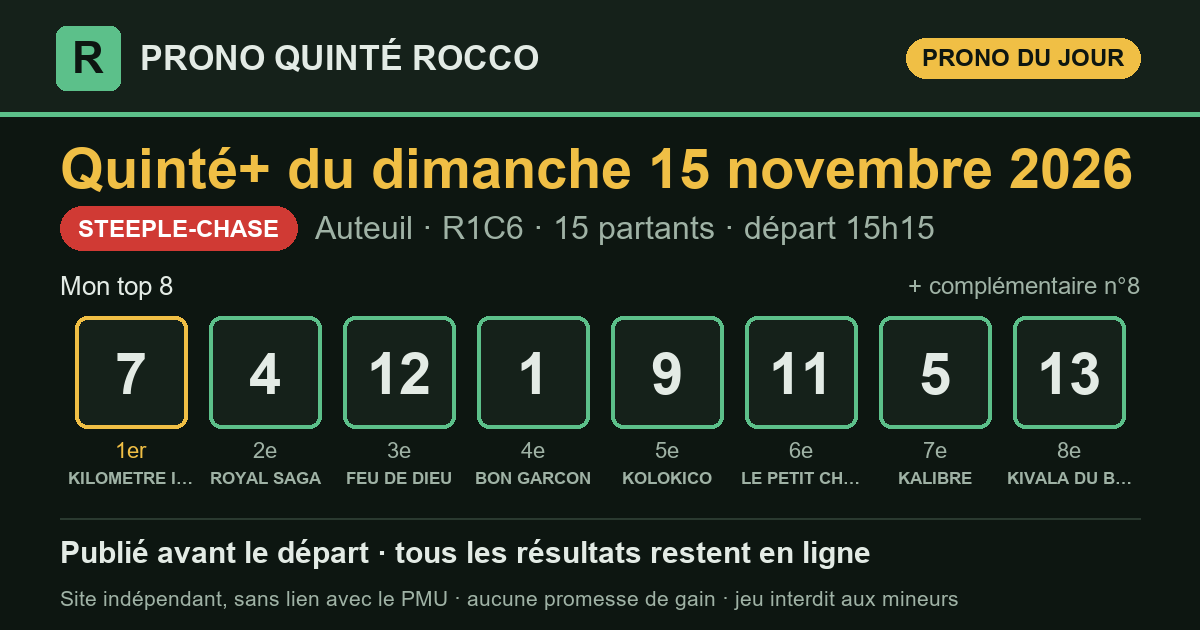
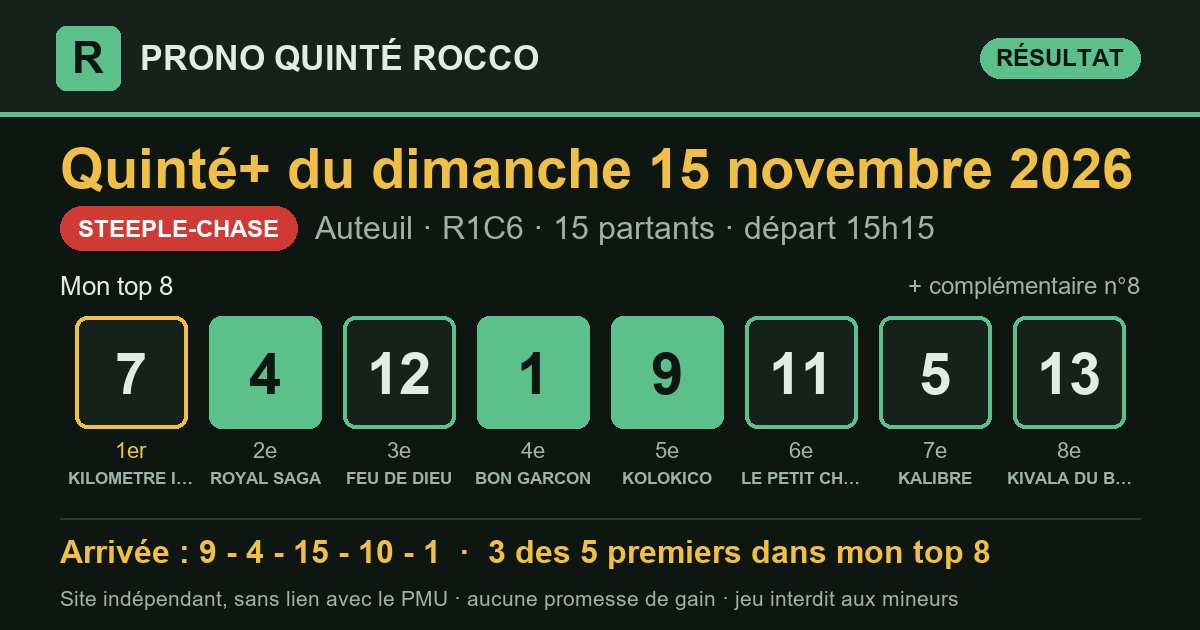
Résultat du Quinté+ 2026-11-15 Auteuil R1C6 — publié le 15/11/2026 16:11 (heure de Paris)

diff --git a/partants.html b/partants.html
@@ -3,7 +3,7 @@
 <head>
 <meta charset="utf-8">
 <meta name="viewport" content="width=device-width, initial-scale=1, viewport-fit=cover">
-<title>Partants du Quinté+ du dimanche 15 novembre 2026 : Prix la Haye Jousselin — Prono Quinté Rocco</title>
+<title>Partants du Quinté+ du lundi 16 novembre 2026 : Prix d&#x27;Aigues Mortes — Prono Quinté Rocco</title>
 <meta name="description" content="Les partants du prochain Quinté+ (programme officiel du PMU), avec le rang de chaque cheval dans mon prono et les liens vers les pronostics de la presse.">
 <link rel="canonical" href="https://prono-quinte-rocco.fr/partants.html">
 <link rel="stylesheet" href="style.css?v=16feb868">
@@ -13,7 +13,7 @@
 <meta property="og:site_name" content="Prono Quinté Rocco">
 <meta property="og:locale" content="fr_FR">
 <meta property="og:type" content="website">
-<meta property="og:title" content="Partants du Quinté+ du dimanche 15 novembre 2026 : Prix la Haye Jousselin — Prono Quinté Rocco">
+<meta property="og:title" content="Partants du Quinté+ du lundi 16 novembre 2026 : Prix d&#x27;Aigues Mortes — Prono Quinté Rocco">
 <meta property="og:description" content="Les partants du prochain Quinté+ (programme officiel du PMU), avec le rang de chaque cheval dans mon prono et les liens vers les pronostics de la presse.">
 <meta property="og:url" content="https://prono-quinte-rocco.fr/partants.html">
 <meta name="twitter:card" content="summary">
@@ -30,95 +30,95 @@
   <p class="surtitre">Programme officiel du PMU</p>
   <h1>Les partants du prochain Quinté+</h1>
   <div class="fiche-course">
-    <p class="fiche-date">Dimanche 15 novembre 2026</p>
-    <div class="fiche-rc"><span class="pastille" title="Réunion 1">R1</span><span class="pastille" title="Course 6">C6</span><span class="fiche-nom">Prix la Haye Jousselin</span></div>
-    <p class="meta"><span class="type t-steeple">Steeple-chase</span>Auteuil · 5 500 m · 15 partants</p>
-    <p class="fiche-depart">Départ <b>15:15</b> <span>heure de Paris</span></p>
+    <p class="fiche-date">Lundi 16 novembre 2026</p>
+    <div class="fiche-rc"><span class="pastille" title="Réunion 1">R1</span><span class="pastille" title="Course 1">C1</span><span class="fiche-nom">Prix d&#x27;Aigues Mortes</span></div>
+    <p class="meta"><span class="type t-attele">Trot attelé</span>Vincennes · 2 100 m · 15 partants</p>
+    <p class="fiche-depart">Départ <b>13:55</b> <span>heure de Paris</span></p>
   </div>
   <p class="surtitre">Les pronostics ailleurs sur le web</p>
-  <div class="liens"><a class="lien-ext" href="https://www.turfoo.fr/programmes-courses/261115/reunion1-auteuil/course6-prix-la-haye-jousselin/pronostics-presse/" rel="noopener" target="_blank"><b>Les pronostics de la presse →</b><span>sur Turfoo (site extérieur)</span></a><a class="lien-ext" href="https://www.geny.com/programme/2026-11-15" rel="noopener" target="_blank"><b>Partants et pronostics →</b><span>programme du jour sur Geny (site extérieur)</span></a></div>
+  <div class="liens"><a class="lien-ext" href="https://www.turfoo.fr/programmes-courses/261116/reunion1-vincennes/course1-prix-d-aigues-mortes/pronostics-presse/" rel="noopener" target="_blank"><b>Les pronostics de la presse →</b><span>sur Turfoo (site extérieur)</span></a><a class="lien-ext" href="https://www.geny.com/programme/2026-11-16" rel="noopener" target="_blank"><b>Partants et pronostics →</b><span>programme du jour sur Geny (site extérieur)</span></a></div>
   <div class="liste-boite"><table class="liste-partants">
     <thead><tr><th>N°</th><th>Cheval</th><th class="cote"><span class="long">Cote du matin</span><span class="court">Cote</span></th>
     <th class="ia"><span class="long">Mon prono</span><span class="court">Prono</span></th></tr></thead>
     <tbody><tr>
   <td><span class="tapis petit">1</span></td>
-  <td><span class="cheval">BON GARCON</span><span class="sous">G.RE · CHAILLE-CHAILLE &amp; PAMART</span></td>
-  <td class="cote num">8,3</td>
-  <td class="ia"><span class="etat place">4<sup>e</sup></span></td>
+  <td><span class="cheval">ILIANO DES PLAINES</span><span class="sous">A. BARRIER · E. BOUYER</span></td>
+  <td class="cote num">—</td>
+  <td class="ia">—</td>
 </tr><tr>
   <td><span class="tapis petit">2</span></td>
-  <td><span class="cheval">AMY DU KIFF</span><span class="sous">T.CHEVILLARD · GAB.LEENDERS (S)</span></td>
-  <td class="cote num">32,0</td>
+  <td><span class="cheval">JAZZ D&#x27;OURVILLE</span><span class="sous">M. ABRIVARD · M. ABRIVARD</span></td>
+  <td class="cote num">—</td>
   <td class="ia">—</td>
 </tr><tr>
   <td><span class="tapis petit">3</span></td>
-  <td><span class="cheval">TOSCANA DU BERLAIS</span><span class="sous">G.RICHARD · CHAILLE-CHAILLE &amp; PAMART</span></td>
-  <td class="cote num">17,0</td>
+  <td><span class="cheval">DESTINO D.J.</span><span class="sous">B. ROCHARD · H.E. BONDO</span></td>
+  <td class="cote num">—</td>
   <td class="ia">—</td>
 </tr><tr>
   <td><span class="tapis petit">4</span></td>
-  <td><span class="cheval">ROYAL SAGA</span><span class="sous">G.MEUNIER · D.BRESSOU</span></td>
-  <td class="cote num">10,0</td>
-  <td class="ia"><span class="etat place">2<sup>e</sup></span></td>
+  <td><span class="cheval">HARPY</span><span class="sous">R. BERGH · R. BERGH</span></td>
+  <td class="cote num">—</td>
+  <td class="ia">—</td>
 </tr><tr>
   <td><span class="tapis petit">5</span></td>
-  <td><span class="cheval">KALIBRE</span><span class="sous">J.PHELIPPE · M.SEROR (S)</span></td>
-  <td class="cote num">19,0</td>
-  <td class="ia"><span class="etat place">7<sup>e</sup></span></td>
+  <td><span class="cheval">JAVA DES CAILLONS</span><span class="sous">F. LAGADEUC · Sté. Ent. Christophe JARIEL</span></td>
+  <td class="cote num">—</td>
+  <td class="ia">—</td>
 </tr><tr>
   <td><span class="tapis petit">6</span></td>
-  <td><span class="cheval">JOJO LAPIN</span><span class="sous">J.PLOUGANOU · D.COTTIN (S)</span></td>
-  <td class="cote num">28,0</td>
+  <td><span class="cheval">JEWEL DE BANVILLE</span><span class="sous">E. RAFFIN · A. CHAVATTE</span></td>
+  <td class="cote num">—</td>
   <td class="ia">—</td>
 </tr><tr>
   <td><span class="tapis petit">7</span></td>
-  <td><span class="cheval">KILOMETRE ILLIMITE</span><span class="sous">G.MASURE · CHAILLE-CHAILLE &amp; PAMART</span></td>
-  <td class="cote num">5,9</td>
-  <td class="ia"><span class="etat place">1<sup>er</sup></span></td>
+  <td><span class="cheval">IQUEM</span><span class="sous">A. COLLETTE · K. LEBLANC</span></td>
+  <td class="cote num">—</td>
+  <td class="ia">—</td>
 </tr><tr>
   <td><span class="tapis petit">8</span></td>
-  <td><span class="cheval">JUNTOS GANAMOS</span><span class="sous">Q.SAMARIA · D.COTTIN (S)</span></td>
-  <td class="cote num">14,0</td>
-  <td class="ia"><span class="etat place">compl.</span></td>
+  <td><span class="cheval">KAXIG IN</span><span class="sous">M. MOTTIER · David PERSSON</span></td>
+  <td class="cote num">—</td>
+  <td class="ia">—</td>
 </tr><tr>
   <td><span class="tapis petit">9</span></td>
-  <td><span class="cheval">KOLOKICO</span><span class="sous">J.REVELEY · E.CLAYEUX (S)</span></td>
-  <td class="cote num">9,6</td>
-  <td class="ia"><span class="etat place">5<sup>e</sup></span></td>
+  <td><span class="cheval">I LOVE JOSSELYN</span><span class="sous">R. DERIEUX · R. DERIEUX</span></td>
+  <td class="cote num">—</td>
+  <td class="ia">—</td>
 </tr><tr>
   <td><span class="tapis petit">10</span></td>
-  <td><span class="cheval">JOHNNY ROQUE</span><span class="sous">L.BRECHET · D.MELE (S)</span></td>
-  <td class="cote num">33,0</td>
+  <td><span class="cheval">DOMENIK JET</span><span class="sous">G. GELORMINI · W. NIMCZYK</span></td>
+  <td class="cote num">—</td>
   <td class="ia">—</td>
 </tr><tr>
   <td><span class="tapis petit">11</span></td>
-  <td><span class="cheval">LE PETIT CHEVAL</span><span class="sous">B.LE CLERC · F.BELLEMERE</span></td>
-  <td class="cote num">9,1</td>
-  <td class="ia"><span class="etat place">6<sup>e</sup></span></td>
+  <td><span class="cheval">DILVA JET</span><span class="sous">A. ANDRE · H.E. BONDO</span></td>
+  <td class="cote num">—</td>
+  <td class="ia">—</td>
 </tr><tr>
   <td><span class="tapis petit">12</span></td>
-  <td><span class="cheval">FEU DE DIEU</span><span class="sous">L.PHILIPPERON · D.COTTIN (S)</span></td>
-  <td class="cote num">8,8</td>
-  <td class="ia"><span class="etat place">3<sup>e</sup></span></td>
+  <td><span class="cheval">JUNKIE (SWE)</span><span class="sous">A. ABRIVARD · P. LEVESQUE</span></td>
+  <td class="cote num">—</td>
+  <td class="ia">—</td>
 </tr><tr>
   <td><span class="tapis petit">13</span></td>
-  <td><span class="cheval">KIVALA DU BERLAIS</span><span class="sous">J.CHARRON · D.COTTIN (S)</span></td>
-  <td class="cote num">9,5</td>
-  <td class="ia"><span class="etat place">8<sup>e</sup></span></td>
+  <td><span class="cheval">MAX OCCAGNES</span><span class="sous">D. LOCQUENEUX · D. LOCQUENEUX</span></td>
+  <td class="cote num">—</td>
+  <td class="ia">—</td>
 </tr><tr>
   <td><span class="tapis petit">14</span></td>
-  <td><span class="cheval">GINJA DES TAILLONS</span><span class="sous">L.ZULIANI · E.ANDIGNE D&#x27;</span></td>
-  <td class="cote num">66,0</td>
+  <td><span class="cheval">ISIS DE POULINE</span><span class="sous">P.PH. PLOQUIN · J.L. VERRIERE</span></td>
+  <td class="cote num">—</td>
   <td class="ia">—</td>
 </tr><tr>
   <td><span class="tapis petit">15</span></td>
-  <td><span class="cheval">LACOKOKELDY</span><span class="sous">A.ZULIANI · F.NICOLLE</span></td>
-  <td class="cote num">15,0</td>
+  <td><span class="cheval">JAG HAUFOR</span><span class="sous">D. THOMAIN · CH. BIGEON</span></td>
+  <td class="cote num">—</td>
   <td class="ia">—</td>
 </tr></tbody>
   </table></div>
-  <p class="meta">La colonne « Mon prono » donne le rang de chaque cheval dans mon top 8, tel qu&#x27;il est publié sur ce site. Sous chaque cheval : jockey · entraîneur. Partants et cotes : programme
-  officiel du PMU, lu le 15/11 à 09:24 (heure de Paris). NP = non-partant.</p>
+  <p class="meta">Mon prono de cette course sera publié le matin de la course, avant le départ. Sous chaque cheval : driver · entraîneur. Partants et cotes : programme
+  officiel du PMU, lu le 15/11 à 16:11 (heure de Paris). NP = non-partant.</p>
 </section>
 </main>
 <footer class="pied">

diff --git a/index.html b/index.html
@@ -16,7 +16,7 @@
 <meta property="og:title" content="Pronostics Quinté+ et Super Pick 5 du dimanche 15 novembre 2026 — Prono Quinté Rocco">
 <meta property="og:description" content="Pronostics Quinté+ (Prix la Haye Jousselin) et Super Pick 5 (Prix Rmc - Prix Count Schomberg) du jour : mes top 8, publiés avant le départ, puis tous les résultats et le rendement réel.">
 <meta property="og:url" content="https://prono-quinte-rocco.fr/">
-<meta property="og:image" content="https://prono-quinte-rocco.fr/partage/jour-2026-11-15.png?v=f7c9551a">
+<meta property="og:image" content="https://prono-quinte-rocco.fr/partage/jour-2026-11-15.png?v=ea8fc5c4">
 <meta property="og:image:type" content="image/png">
 <meta property="og:image:width" content="1200">
 <meta property="og:image:height" content="630">
@@ -32,7 +32,7 @@
 <div class="jeux j-quinte" role="navigation" aria-label="Choix du jeu"><a class="jeu jeu-quinte actif" href="index.html" aria-current="true">Quinté+</a><a class="jeu jeu-sp5" href="superpick5.html">e-Super Pick5<small>entre 17 h et 19 h</small></a></div>
 <main>
 <section class="une" aria-labelledby="t-jour">
-  <p class="surtitre">Quinté+ du jour</p>
+  <p class="surtitre">Dernier Quinté+</p>
   <h1 id="t-jour">Le prono du Quinté+, résultats compris</h1>
   <p class="chapo">Chaque matin, j'étudie les partants du Quinté+ avec le logiciel que
   j'ai conçu, selon ma propre méthode, qu'une intelligence artificielle m'aide à
@@ -43,10 +43,13 @@
   <p class="meta">Prix la Haye Jousselin · Auteuil · <strong>R1C6</strong> · 15 partants · <span class="lisib">lisibilité <span class="note" aria-label="note 2 sur 5" title="lisibilité 2/5 : course ouverte"><i class="on"></i><i class="on"></i><i class=""></i><i class=""></i><i class=""></i></span> 2/5</span></p>
   <div class="zone-prono">
     <h3 class="zone-titre">Mon top 8</h3>
-    <ol class="partants" aria-label="Mon top 8"><li><span class="rang">1<sup>er</sup></span><span class="tapis ">7</span><span class="nom">KILOMETRE ILLIMITE</span></li><li><span class="rang">2<sup>e</sup></span><span class="tapis ">4</span><span class="nom">ROYAL SAGA</span></li><li><span class="rang">3<sup>e</sup></span><span class="tapis ">12</span><span class="nom">FEU DE DIEU</span></li><li><span class="rang">4<sup>e</sup></span><span class="tapis ">1</span><span class="nom">BON GARCON</span></li><li><span class="rang">5<sup>e</sup></span><span class="tapis ">9</span><span class="nom">KOLOKICO</span></li><li><span class="rang">6<sup>e</sup></span><span class="tapis ">11</span><span class="nom">LE PETIT CHEVAL</span></li><li><span class="rang">7<sup>e</sup></span><span class="tapis ">5</span><span class="nom">KALIBRE</span></li><li><span class="rang">8<sup>e</sup></span><span class="tapis ">13</span><span class="nom">KIVALA DU BERLAIS</span></li><li><span class="rang">compl.</span><span class="tapis creux">8</span><span class="nom">JUNTOS GANAMOS</span></li></ol>
+    <ol class="partants" aria-label="Mon top 8"><li><span class="rang">1<sup>er</sup></span><span class="tapis ">7</span><span class="nom">KILOMETRE ILLIMITE</span></li><li><span class="rang">2<sup>e</sup></span><span class="tapis plein">4</span><span class="nom">ROYAL SAGA</span></li><li><span class="rang">3<sup>e</sup></span><span class="tapis ">12</span><span class="nom">FEU DE DIEU</span></li><li><span class="rang">4<sup>e</sup></span><span class="tapis plein">1</span><span class="nom">BON GARCON</span></li><li><span class="rang">5<sup>e</sup></span><span class="tapis plein">9</span><span class="nom">KOLOKICO</span></li><li><span class="rang">6<sup>e</sup></span><span class="tapis ">11</span><span class="nom">LE PETIT CHEVAL</span></li><li><span class="rang">7<sup>e</sup></span><span class="tapis ">5</span><span class="nom">KALIBRE</span></li><li><span class="rang">8<sup>e</sup></span><span class="tapis ">13</span><span class="nom">KIVALA DU BERLAIS</span></li><li><span class="rang">compl.</span><span class="tapis creux">8</span><span class="nom">JUNTOS GANAMOS</span></li></ol>
     <div class="pied-carte"><span>Analysé le 15/11 à 09:12 · en ligne le 15/11 à 09:24 · départ à 15:15 (heure de Paris)</span><span><a href="quinte/2026-11-15.html">Détail de la course</a></span></div>
   </div>
-  <div class="zone-arrivee attente"><p>L'arrivée officielle s'affichera ici après la course.</p></div>
+  <div class="zone-arrivee">
+    <div class="zone-tete"><h3 class="zone-titre">Arrivée officielle</h3><span class="etat non">3 des 5 premiers dans mon top 8</span><span class="etat non">mon 1er (n°7) : non placé</span></div>
+    <ol class="partants" aria-label="Arrivée officielle"><li><span class="rang">1<sup>er</sup></span><span class="tapis plein">9</span><span class="nom">KOLOKICO</span></li><li><span class="rang">2<sup>e</sup></span><span class="tapis plein">4</span><span class="nom">ROYAL SAGA</span></li><li><span class="rang">3<sup>e</sup></span><span class="tapis hors">15</span><span class="nom">LACOKOKELDY</span></li><li><span class="rang">4<sup>e</sup></span><span class="tapis hors">10</span><span class="nom">JOHNNY ROQUE</span></li><li><span class="rang">5<sup>e</sup></span><span class="tapis plein">1</span><span class="nom">BON GARCON</span></li></ol>
+  </div>
 </article>
 </section>
 <section class="suivre" aria-label="Suivre et soutenir">
@@ -76,7 +79,7 @@
 </section>
 <section class="bilan" aria-labelledby="t-bilan">
   <h2 id="t-bilan">Mon bilan depuis le 8 septembre 2026</h2>
-  <div class="tableau chiffres"><div class="case"><span class="gros ">73 %</span><span class="lib">des arrivants trouvés dans mon top 8</span><span class="ref">un top 8 tiré au hasard : 51 %</span></div><div class="case"><span class="gros ">88 %</span><span class="lib">des gagnants présents dans mon top 8</span><span class="ref"></span></div><div class="case"><span class="gros ">49 %</span><span class="lib">mon 1er placé</span><span class="ref">sur 67 Quintés</span></div><div class="case"><span class="gros perte">0,91 €</span><span class="lib">rendus pour 1 € joué placé sur mon 1er</span><span class="ref">rapports officiels PMU</span></div><div class="case"><span class="gros perte">0,43 €</span><span class="lib">rendus pour 1 € joué en Quinté+ combiné sur mon top 8</span><span class="ref">56 combinaisons, rapports PMU.fr, sur 67 Quintés</span></div></div>
+  <div class="tableau chiffres"><div class="case"><span class="gros ">73 %</span><span class="lib">des arrivants trouvés dans mon top 8</span><span class="ref">un top 8 tiré au hasard : 51 %</span></div><div class="case"><span class="gros ">88 %</span><span class="lib">des gagnants présents dans mon top 8</span><span class="ref"></span></div><div class="case"><span class="gros ">49 %</span><span class="lib">mon 1er placé</span><span class="ref">sur 68 Quintés</span></div><div class="case"><span class="gros perte">0,89 €</span><span class="lib">rendus pour 1 € joué placé sur mon 1er</span><span class="ref">rapports officiels PMU</span></div><div class="case"><span class="gros perte">0,43 €</span><span class="lib">rendus pour 1 € joué en Quinté+ combiné sur mon top 8</span><span class="ref">56 combinaisons, rapports PMU.fr, sur 68 Quintés</span></div></div>
   <p class="avertissement">Moins de 1 € rendu pour 1 € joué : suivre mon prono à la lettre fait <strong>perdre de l'argent</strong> sur cette période. Il sert à analyser une course, pas à promettre un gain.</p>
 </section>
 </main>

diff --git a/quinte/2026-11-15.html b/quinte/2026-11-15.html
@@ -16,7 +16,7 @@
 <meta property="og:title" content="Pronostic Quinté+ du dimanche 15 novembre 2026 : Prix la Haye Jousselin à Auteuil — Prono Quinté Rocco">
 <meta property="og:description" content="Prono Quinté+ du dimanche 15 novembre 2026 (Prix la Haye Jousselin, Auteuil) : mon top 8, l&#x27;arrivée officielle et les rapports PMU.fr.">
 <meta property="og:url" content="https://prono-quinte-rocco.fr/quinte/2026-11-15.html">
-<meta property="og:image" content="https://prono-quinte-rocco.fr/partage/2026-11-15.png?v=b7eb2115">
+<meta property="og:image" content="https://prono-quinte-rocco.fr/partage/2026-11-15.png?v=eda21a7e">
 <meta property="og:image:type" content="image/png">
 <meta property="og:image:width" content="1200">
 <meta property="og:image:height" content="630">
@@ -36,15 +36,25 @@
   <h1>Pronostic Quinté+ du dimanche 15 novembre 2026</h1>
   <p class="chapo">Prix la Haye Jousselin · Auteuil · R1C6 · Steeple-chase · 15 partants</p>
   <article class="carte-course">
-  <div class="tete"><h2>Mon prono</h2><span class="type t-steeple">Steeple-chase</span></div>
+  <div class="tete"><h2>Mon prono et l&#x27;arrivée officielle</h2><span class="type t-steeple">Steeple-chase</span></div>
   <p class="meta">Prix la Haye Jousselin · Auteuil · <strong>R1C6</strong> · 15 partants · <span class="lisib">lisibilité <span class="note" aria-label="note 2 sur 5" title="lisibilité 2/5 : course ouverte"><i class="on"></i><i class="on"></i><i class=""></i><i class=""></i><i class=""></i></span> 2/5</span></p>
   <div class="zone-prono">
     <h3 class="zone-titre">Mon top 8</h3>
-    <ol class="partants" aria-label="Mon top 8"><li><span class="rang">1<sup>er</sup></span><span class="tapis ">7</span><span class="nom">KILOMETRE ILLIMITE</span></li><li><span class="rang">2<sup>e</sup></span><span class="tapis ">4</span><span class="nom">ROYAL SAGA</span></li><li><span class="rang">3<sup>e</sup></span><span class="tapis ">12</span><span class="nom">FEU DE DIEU</span></li><li><span class="rang">4<sup>e</sup></span><span class="tapis ">1</span><span class="nom">BON GARCON</span></li><li><span class="rang">5<sup>e</sup></span><span class="tapis ">9</span><span class="nom">KOLOKICO</span></li><li><span class="rang">6<sup>e</sup></span><span class="tapis ">11</span><span class="nom">LE PETIT CHEVAL</span></li><li><span class="rang">7<sup>e</sup></span><span class="tapis ">5</span><span class="nom">KALIBRE</span></li><li><span class="rang">8<sup>e</sup></span><span class="tapis ">13</span><span class="nom">KIVALA DU BERLAIS</span></li><li><span class="rang">compl.</span><span class="tapis creux">8</span><span class="nom">JUNTOS GANAMOS</span></li></ol>
+    <ol class="partants" aria-label="Mon top 8"><li><span class="rang">1<sup>er</sup></span><span class="tapis ">7</span><span class="nom">KILOMETRE ILLIMITE</span></li><li><span class="rang">2<sup>e</sup></span><span class="tapis plein">4</span><span class="nom">ROYAL SAGA</span></li><li><span class="rang">3<sup>e</sup></span><span class="tapis ">12</span><span class="nom">FEU DE DIEU</span></li><li><span class="rang">4<sup>e</sup></span><span class="tapis plein">1</span><span class="nom">BON GARCON</span></li><li><span class="rang">5<sup>e</sup></span><span class="tapis plein">9</span><span class="nom">KOLOKICO</span></li><li><span class="rang">6<sup>e</sup></span><span class="tapis ">11</span><span class="nom">LE PETIT CHEVAL</span></li><li><span class="rang">7<sup>e</sup></span><span class="tapis ">5</span><span class="nom">KALIBRE</span></li><li><span class="rang">8<sup>e</sup></span><span class="tapis ">13</span><span class="nom">KIVALA DU BERLAIS</span></li><li><span class="rang">compl.</span><span class="tapis creux">8</span><span class="nom">JUNTOS GANAMOS</span></li></ol>
     <div class="pied-carte"><span>Analysé le 15/11 à 09:12 · en ligne le 15/11 à 09:24 · départ à 15:15 (heure de Paris)</span><span></span></div>
   </div>
-  <div class="zone-arrivee attente"><p>L'arrivée officielle s'affichera ici après la course.</p></div>
+  <div class="zone-arrivee">
+    <div class="zone-tete"><h3 class="zone-titre">Arrivée officielle</h3><span class="etat non">3 des 5 premiers dans mon top 8</span><span class="etat non">mon 1er (n°7) : non placé</span></div>
+    <ol class="partants" aria-label="Arrivée officielle"><li><span class="rang">1<sup>er</sup></span><span class="tapis plein">9</span><span class="nom">KOLOKICO</span></li><li><span class="rang">2<sup>e</sup></span><span class="tapis plein">4</span><span class="nom">ROYAL SAGA</span></li><li><span class="rang">3<sup>e</sup></span><span class="tapis hors">15</span><span class="nom">LACOKOKELDY</span></li><li><span class="rang">4<sup>e</sup></span><span class="tapis hors">10</span><span class="nom">JOHNNY ROQUE</span></li><li><span class="rang">5<sup>e</sup></span><span class="tapis plein">1</span><span class="nom">BON GARCON</span></li></ol>
+  </div>
 </article>
+<section class="carte-course rapports" aria-labelledby="t-rap">
+  <div class="tete"><h2 id="t-rap">Les rapports</h2></div>
+  <div class="deux">
+    <div><h3>Ce qu'aurait rendu mon prono</h3><dl class="kv"><dt>1 € placé sur mon 1er (n°7)</dt><dd class="perte">0,00 €</dd><dt>1 € gagnant sur mon 1er</dt><dd class="perte">0,00 €</dd><dt>Quinté+ combiné sur mon top 8 (mise 112 €)</dt><dd class="perte">0,00 €</dd><dd class="dont">aucune combinaison gagnante</dd></dl></div>
+    <div><h3>Rapports officiels</h3><dl class="kv"><dt>e-Quinté+ Ordre (2 €)</dt><dd>129 253,40 €</dd><dt>e-Quinté+ Désordre (2 €)</dt><dd>2 087,80 €</dd><dt>e-Bonus 4sur5 (2 €)</dt><dd>14,40 €</dd><dt>e-Bonus 3 (2 €)</dt><dd>10,20 €</dd></dl></div>
+  </div>
+</section>
 </section>
 </main>
 <footer class="pied">

diff --git a/superpick5-partants.html b/superpick5-partants.html
@@ -43,87 +43,87 @@
     <tbody><tr>
   <td><span class="tapis petit">1</span></td>
   <td><span class="cheval">LOQUAS</span><span class="sous">K.NABET · Y.FOUIN (S)</span></td>
-  <td class="cote num">21,0</td>
+  <td class="cote num">10,0</td>
   <td class="ia"><span class="etat place">8<sup>e</sup></span></td>
 </tr><tr>
   <td><span class="tapis petit">2</span></td>
   <td><span class="cheval">GARDONS LE SOURIRE</span><span class="sous">T.CHEVILLARD · GAB.LEENDERS (S)</span></td>
-  <td class="cote num">18,0</td>
+  <td class="cote num">15,0</td>
   <td class="ia"><span class="etat place">3<sup>e</sup></span></td>
 </tr><tr>
   <td><span class="tapis petit">3</span></td>
   <td><span class="cheval">JAGUAR DU BERLAIS</span><span class="sous">THO .JOURNIAC · E.GRALL (S)</span></td>
-  <td class="cote num">14,0</td>
+  <td class="cote num">12,0</td>
   <td class="ia">—</td>
 </tr><tr>
   <td><span class="tapis petit">4</span></td>
   <td><span class="cheval">CROWN DU BERLAIS</span><span class="sous">L.ZULIANI · LAGENESTE &amp; MACAIRE (S)</span></td>
-  <td class="cote num">9,1</td>
+  <td class="cote num">12,0</td>
   <td class="ia"><span class="etat place">6<sup>e</sup></span></td>
 </tr><tr>
   <td><span class="tapis petit">5</span></td>
   <td><span class="cheval">DO IT AGAIN</span><span class="sous">J.REVELEY · N. GEORGE &amp; A. ZETTERHOLM</span></td>
-  <td class="cote num">5,2</td>
+  <td class="cote num">6,9</td>
   <td class="ia"><span class="etat place">1<sup>er</sup></span></td>
 </tr><tr>
   <td><span class="tapis petit">6</span></td>
   <td><span class="cheval">MOTY MARC</span><span class="sous">B.LE CLERC · F.BELLEMERE</span></td>
-  <td class="cote num">39,0</td>
+  <td class="cote num">31,0</td>
   <td class="ia">—</td>
 </tr><tr>
   <td><span class="tapis petit">7</span></td>
   <td><span class="cheval">SAINT ROBIN</span><span class="sous">G.FAIVRE-PICON · GAB.LEENDERS (S)</span></td>
-  <td class="cote num">63,0</td>
+  <td class="cote num">50,0</td>
   <td class="ia">—</td>
 </tr><tr>
   <td><span class="tapis petit">8</span></td>
   <td><span class="cheval">JOST</span><span class="sous">L.PHILIPPERON · M.SEROR (S)</span></td>
-  <td class="cote num">17,0</td>
+  <td class="cote num">11,0</td>
   <td class="ia">—</td>
 </tr><tr>
   <td><span class="tapis petit">9</span></td>
   <td><span class="cheval">LEMNOS</span><span class="sous">A.ZULIANI · E.ANDIGNE D&#x27;</span></td>
-  <td class="cote num">16,0</td>
+  <td class="cote num">25,0</td>
   <td class="ia"><span class="etat place">compl.</span></td>
 </tr><tr>
   <td><span class="tapis petit">10</span></td>
   <td><span class="cheval">NEVER RISK</span><span class="sous">N.FERREIRA · H.MERIENNE (S)</span></td>
-  <td class="cote num">33,0</td>
+  <td class="cote num">31,0</td>
   <td class="ia">—</td>
 </tr><tr>
   <td><span class="tapis petit">11</span></td>
   <td><span class="cheval">ROBIN HILL</span><span class="sous">T.BEAURAIN · L.CARBERRY (S)</span></td>
-  <td class="cote num">5,8</td>
+  <td class="cote num">7,4</td>
   <td class="ia"><span class="etat place">2<sup>e</sup></span></td>
 </tr><tr>
   <td><span class="tapis petit">12</span></td>
   <td><span class="cheval">LECA DE THAIX</span><span class="sous">M.CHAILLOLEAU · E.ANDIGNE D&#x27;</span></td>
-  <td class="cote num">13,0</td>
+  <td class="cote num">27,0</td>
   <td class="ia"><span class="etat place">5<sup>e</sup></span></td>
 </tr><tr>
   <td><span class="tapis petit">13</span></td>
   <td><span class="cheval">LIPRIKA D&#x27;ANJOU</span><span class="sous">F.GILES · H.MERIENNE (S)</span></td>
-  <td class="cote num">8,2</td>
+  <td class="cote num">7,9</td>
   <td class="ia"><span class="etat place">4<sup>e</sup></span></td>
 </tr><tr>
   <td><span class="tapis petit">14</span></td>
   <td><span class="cheval">SOLIGO</span><span class="sous">A.CHESNEAU · Y.FOUIN (S)</span></td>
-  <td class="cote num">35,0</td>
+  <td class="cote num">11,0</td>
   <td class="ia">—</td>
 </tr><tr>
   <td><span class="tapis petit">15</span></td>
   <td><span class="cheval">BELIZE</span><span class="sous">G.MEUNIER · D.BRESSOU</span></td>
-  <td class="cote num">12,0</td>
+  <td class="cote num">11,0</td>
   <td class="ia"><span class="etat place">7<sup>e</sup></span></td>
 </tr><tr>
   <td><span class="tapis petit">16</span></td>
   <td><span class="cheval">ESASTAR</span><span class="sous">M.BEHOCARAY · D.BRESSOU</span></td>
-  <td class="cote num">31,0</td>
+  <td class="cote num">37,0</td>
   <td class="ia">—</td>
 </tr></tbody>
   </table></div>
   <p class="meta">La colonne « Mon prono » donne le rang de chaque cheval dans mon top 8, tel qu&#x27;il est publié sur ce site. Sous chaque cheval : jockey · entraîneur. Partants et cotes : programme
-  officiel du PMU, lu le 15/11 à 09:24 (heure de Paris). NP = non-partant.</p>
+  officiel du PMU, lu le 15/11 à 16:11 (heure de Paris). NP = non-partant.</p>
 </section>
 </main>
 <footer class="pied">

diff --git a/resultats.html b/resultats.html
@@ -49,12 +49,12 @@
     <th colspan="4" class="res g-res">Le résultat officiel</th></tr>
     <tr><th>Date</th><th>Course</th><th>Top 8</th><th class="c-lis">Lisibilité</th><th class="res c-arr">Arrivée</th>
     <th class="res">Trouvés</th><th class="res">Mon 1er</th><th class="res mont">Quinté+ top 8<br><small>(mise 112 €)</small></th></tr></thead>
-    <tbody><tr class="attente">
+    <tbody><tr>
   <td class="c-date"><a href="quinte/2026-11-15.html">15/11</a></td>
   <td class="c-course">Auteuil<br><span class="meta">R1C6</span><span class="type t-steeple petit">Steeple</span></td>
-  <td class="c-top8" data-label="Mon top 8"><div class="rangee"><span class="tapis petit">7</span><span class="tapis petit">4</span><span class="tapis petit">12</span><span class="tapis petit">1</span><span class="tapis petit">9</span><span class="tapis petit">11</span><span class="tapis petit">5</span><span class="tapis petit">13</span></div></td>
+  <td class="c-top8" data-label="Mon top 8"><div class="rangee"><span class="tapis petit">7</span><span class="tapis plein petit">4</span><span class="tapis petit">12</span><span class="tapis plein petit">1</span><span class="tapis plein petit">9</span><span class="tapis petit">11</span><span class="tapis petit">5</span><span class="tapis petit">13</span></div></td>
   <td class="c-lis" data-label="Lisibilité"><span class="note" aria-label="note 2 sur 5" title="lisibilité 2/5 : course ouverte"><i class="on"></i><i class="on"></i><i class=""></i><i class=""></i><i class=""></i></span> 2/5</td>
-  <td class="res c-arr" data-label="Arrivée"><span class="etat attente">en attente</span></td><td class="res num c-trouves" data-label="Trouvés">—</td><td class="res c-premier" data-label="Mon 1er"><span class="etat attente">—</span></td><td class="res mont c-mont" data-label="Quinté+ top 8 (mise 112 €)">—</td>
+  <td class="res c-arr" data-label="Arrivée"><div class="rangee"><span class="tapis plein petit" title="1er">9</span><span class="tapis plein petit" title="2e">4</span><span class="tapis hors petit" title="3e">15</span><span class="tapis hors petit" title="4e">10</span><span class="tapis plein petit" title="5e">1</span></div></td><td class="res num c-trouves" data-label="Trouvés">3/5</td><td class="res c-premier" data-label="Mon 1er"><span class="etat non">non placé</span></td><td class="res mont c-mont perte" data-label="Quinté+ top 8 (mise 112 €)" title="perte nette : 112,00 €">0,00 €</td>
 </tr><tr>
   <td class="c-date"><a href="quinte/2026-11-14.html">14/11</a></td>
   <td class="c-course">Vincennes<br><span class="meta">R1C4</span><span class="type t-attele petit">Attelé</span></td>
@@ -462,7 +462,7 @@
 </section>
 <section class="bilan" aria-labelledby="t-bilan">
   <h2 id="t-bilan">Mon bilan depuis le 8 septembre 2026</h2>
-  <div class="tableau chiffres"><div class="case"><span class="gros ">73 %</span><span class="lib">des arrivants trouvés dans mon top 8</span><span class="ref">un top 8 tiré au hasard : 51 %</span></div><div class="case"><span class="gros ">88 %</span><span class="lib">des gagnants présents dans mon top 8</span><span class="ref"></span></div><div class="case"><span class="gros ">49 %</span><span class="lib">mon 1er placé</span><span class="ref">sur 67 Quintés</span></div><div class="case"><span class="gros perte">0,91 €</span><span class="lib">rendus pour 1 € joué placé sur mon 1er</span><span class="ref">rapports officiels PMU</span></div><div class="case"><span class="gros perte">0,43 €</span><span class="lib">rendus pour 1 € joué en Quinté+ combiné sur mon top 8</span><span class="ref">56 combinaisons, rapports PMU.fr, sur 67 Quintés</span></div></div>
+  <div class="tableau chiffres"><div class="case"><span class="gros ">73 %</span><span class="lib">des arrivants trouvés dans mon top 8</span><span class="ref">un top 8 tiré au hasard : 51 %</span></div><div class="case"><span class="gros ">88 %</span><span class="lib">des gagnants présents dans mon top 8</span><span class="ref"></span></div><div class="case"><span class="gros ">49 %</span><span class="lib">mon 1er placé</span><span class="ref">sur 68 Quintés</span></div><div class="case"><span class="gros perte">0,89 €</span><span class="lib">rendus pour 1 € joué placé sur mon 1er</span><span class="ref">rapports officiels PMU</span></div><div class="case"><span class="gros perte">0,43 €</span><span class="lib">rendus pour 1 € joué en Quinté+ combiné sur mon top 8</span><span class="ref">56 combinaisons, rapports PMU.fr, sur 68 Quintés</span></div></div>
   <p class="avertissement">Moins de 1 € rendu pour 1 € joué : suivre mon prono à la lettre fait <strong>perdre de l'argent</strong> sur cette période. Il sert à analyser une course, pas à promettre un gain.</p>
 </section>
 </main>
